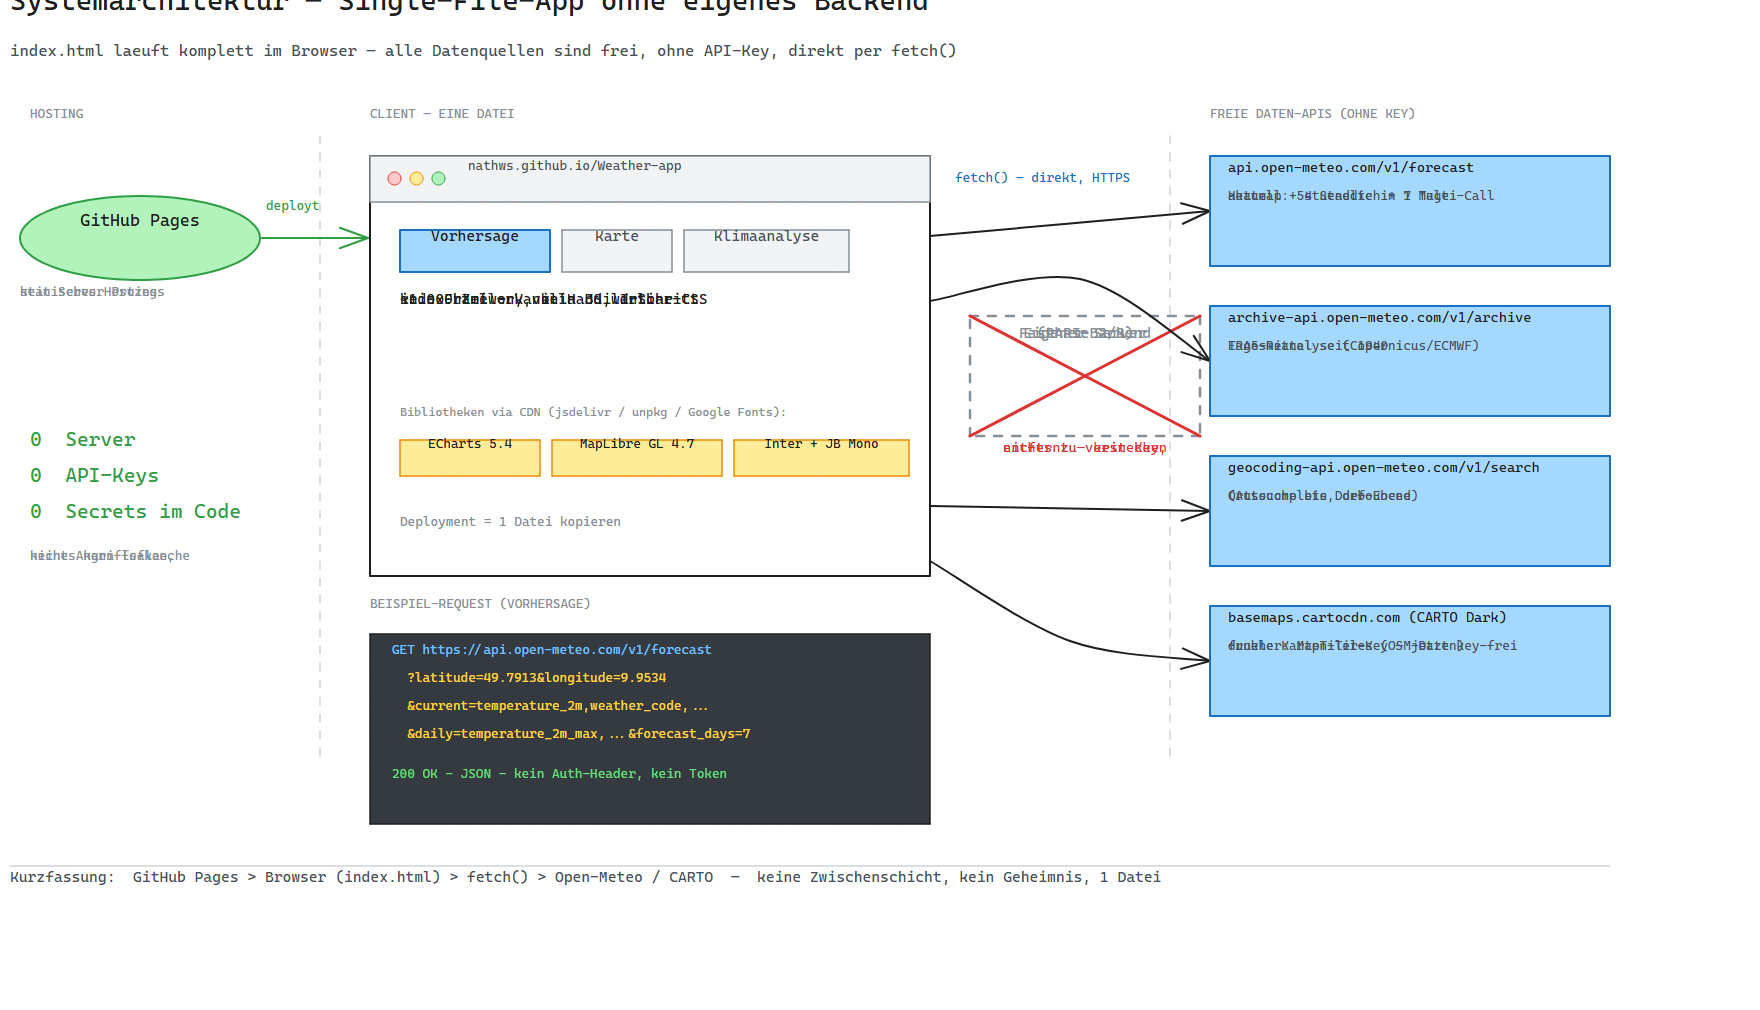
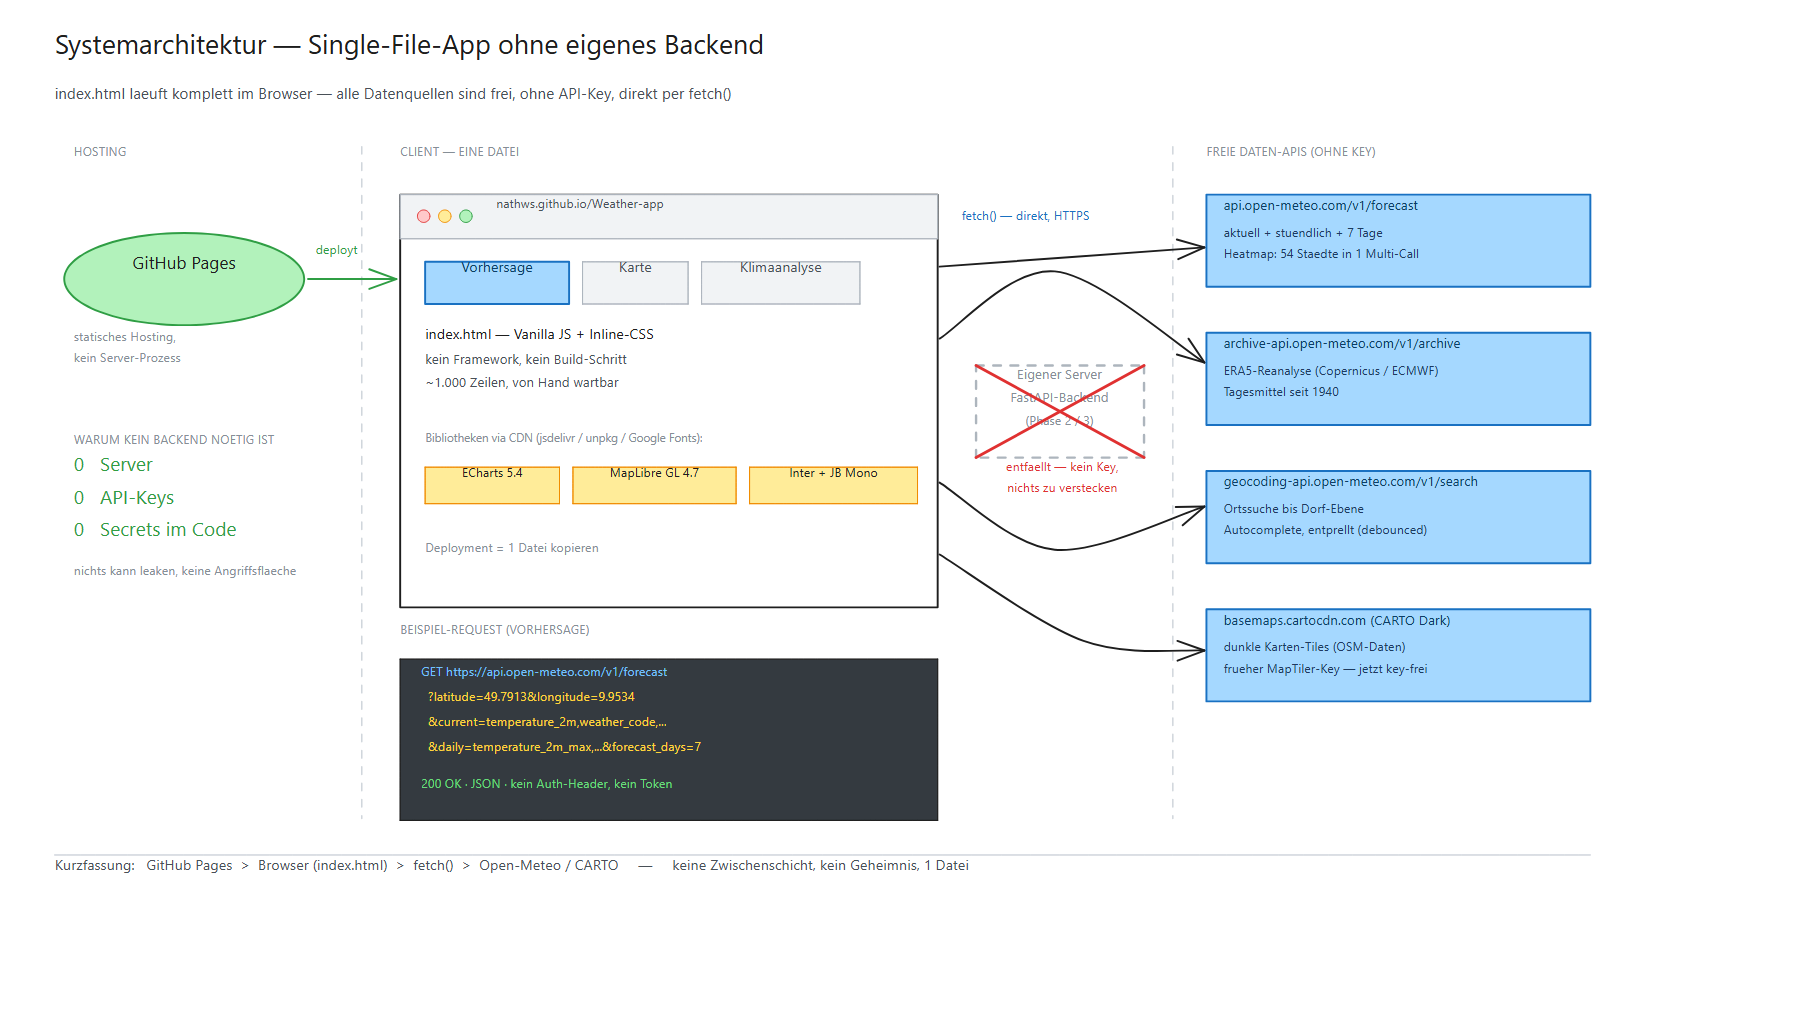
Final touch up

diff --git a/index.html b/index.html
@@ -394,7 +394,7 @@
     <div class="page-head">
       <div>
         <h1 class="h1" id="cl-city">Würzburg</h1>
-        <div class="when">Historische ERA5-Reanalyse (Open-Meteo Archive, ab 1940) — Klimareferenz 1961–1990.</div>
+        <div class="when">Historische ERA5-Reanalyse (Open-Meteo Archive, ab 1940) — Klimareferenz 1961–2025.</div>
       </div>
     </div>
 
@@ -407,7 +407,7 @@
       </div>
       <div class="span-5">
         <div class="card">
-          <div class="lbl">Abweichung vom Referenzmittel <span class="meta">vs. 1961–1990</span></div>
+          <div class="lbl">Abweichung vom Referenzmittel <span class="meta">vs. 1961–2025</span></div>
           <div class="chart tall" id="deviation-chart"></div>
         </div>
       </div>
@@ -888,7 +888,7 @@ async function loadClimate(force){
       if(y===curY && vals.length<270) return;
       years.push(y); annual.push(+(vals.reduce(function(a,b){return a+b;},0)/vals.length).toFixed(2));
     });
-    var refVals=years.flatMap(function(y,i){ return (y>=1961&&y<=1990)?[annual[i]]:[]; });
+    var refVals=years.flatMap(function(y,i){ return (y>=1961&&y<=2025)?[annual[i]]:[]; });
     var refMean=refVals.length?refVals.reduce(function(a,b){return a+b;},0)/refVals.length:annual[0];
     var trend=annual.map(function(_,i){ var s=Math.max(0,i-4), e=Math.min(annual.length-1,i+5), w=annual.slice(s,e+1);
       return +(w.reduce(function(a,b){return a+b;},0)/w.length).toFixed(2); });